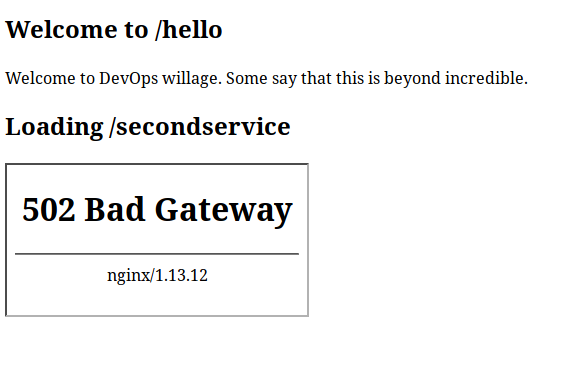
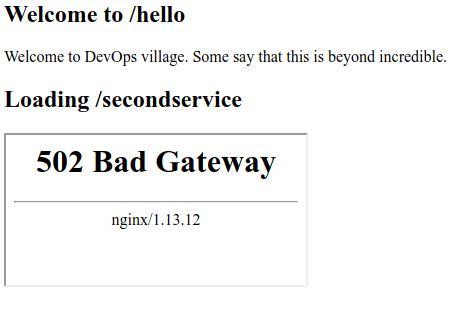
Feedback updates after demo session
Docker images for challenge 2 with a willage -> village typo correction have
been updated and pushed to Docker Hub.

diff --git a/docs/content/containerization/challenge1.md b/docs/content/containerization/challenge1.md
@@ -126,14 +126,18 @@ The service type we created was of type `NodePort`, which means that every
 machine which is part of the Kubernetes cluster forwards traffic received on
 port `32644` to the Kubernetes Service we just created.
 
-In another terminal window, run this to verify that you can access the
-service: `watch -d curl -s http://localhost:32644`. Of course, replace
-`32644` with the port number that you saw in the output.
+In another terminal window, run this to verify that you can access the service:
+`watch -d curl -s http://localhost:32644`. You will have to replace `32644` with
+the port number that you saw in the output.
 
 You should see an output like this:
 
     Welcome to TS2019!
     Served from frontend-6f95c57495-7ppsf
+
+If no output shows up, please delete the service by running `kubectl delete -f
+service.yaml` and retry the previous step. At times, the `NodePort` service
+creation can fail.
 
 Congratulations, you've deployed a container and exposed it outside of the
 cluster!
@@ -226,3 +230,13 @@ occurs.
 
 Your code will be seen in the output of `curl`. Enter that in the text box
 for the challenge screen to complete this challenge!
+
+## Conclusion
+
+And that brings you to the end of this hands on session - you learnt how to
+deploy a container, expose it outside the cluster, scale it up and upgrade it.
+All without any impact to the service availability.
+
+Clean up your Kubernetes cluster by running `kubectl delete -f .` in the folder.
+This will delete resources corresponding to every YAML file in the current
+directory.

diff --git a/docs/content/containerization/challenge2.md b/docs/content/containerization/challenge2.md
@@ -125,7 +125,7 @@ If all goes to plan, you should see something as shown below:
 
 ![img](/containerization/l2s2.png)
 
-That's great, you've deployed the first app. But there's a 404 error on the
+That's great, you've deployed the first app. But there's a 502 error on the
 page. That's because the second app is still not deployed and wired up with an
 ingress rule.
 
